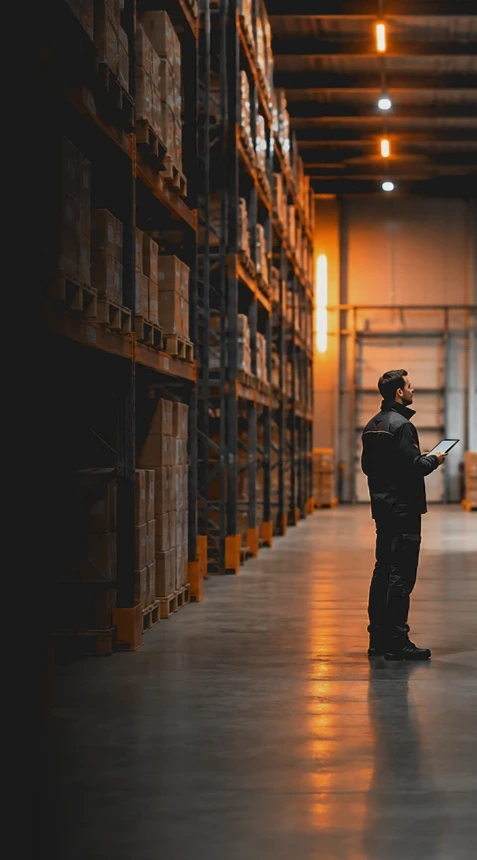
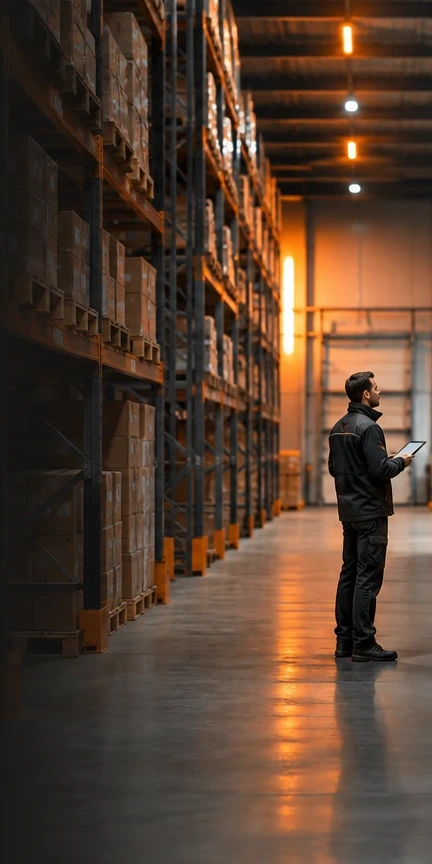
О компании: блоки преимуществ и миссии по макету

diff --git a/o-kompanii.html b/o-kompanii.html
@@ -12,7 +12,7 @@
   <link rel="stylesheet" href="css/style.css?v=73">
   <link rel="stylesheet" href="css/mining.css?v=6">
   <link rel="stylesheet" href="css/catalog.css?v=18">
-  <link rel="stylesheet" href="css/services.css?v=38">
+  <link rel="stylesheet" href="css/services.css?v=40">
   <link rel="stylesheet" href="css/unify.css?v=4">
 </head>
 <body class="page-svc">
@@ -176,7 +176,7 @@
   <section class="section">
     <div class="container">
       <div class="sv-two">
-        <div class="sv-panel sv-panel--photo"><img class="sv-panel__img" src="img/svc/o-adv.webp?v=3" alt="" loading="lazy">
+        <div class="sv-panel sv-panel--photo"><img class="sv-panel__img" src="img/svc/o-adv.webp?v=4" alt="" loading="lazy">
           <h3 class="sv-panel__title">Наши преимущества</h3><span class="line" aria-hidden="true"></span>
           <p class="sv-panel__sub">За что нас ценят клиенты</p>
           <ul class="sv-checks" style="max-width:68%">
@@ -191,7 +191,7 @@
         <div class="sv-panel">
           <h3 class="sv-panel__title">Наша миссия</h3><span class="line" aria-hidden="true"></span>
           <p class="sv-panel__sub">Создаём склады, которые работают на бизнес</p>
-          <ul class="sv-tiles">
+          <ul class="sv-tiles sv-tiles--m">
             <li><img src="img/svc/i-grid.svg" width="26" height="26" alt="">Упорядочиваем пространство</li>
             <li><img src="img/svc/i-trend.svg" width="26" height="26" alt="">Помогаем бизнесу расти</li>
             <li><img src="img/svc/i-ruler.svg" width="26" height="26" alt="">Проектируем эффективные склады</li>

diff --git a/css/services.css b/css/services.css
@@ -493,3 +493,8 @@ a.sv-pc:hover .sv-pc__btn { background: var(--c-accent-hover); }
 .sv-dir__more { display: flex; align-items: center; justify-content: center; gap: 10px; font-style: normal; font-size: 14px; font-weight: 600; text-transform: uppercase; color: #fff; background: #ea5901; }
 @media (max-width: 1100px) { .sv-dirs { grid-template-columns: repeat(2, minmax(0, 1fr)); gap: 24px; } }
 @media (max-width: 640px) { .sv-dirs { grid-template-columns: minmax(0, 1fr); gap: 16px; margin-top: 24px; } }
+
+/* ---------- «Наша миссия» и «Наши преимущества» по макету ---------- */
+.sv-panel--photo .sv-panel__img { -webkit-mask-image: linear-gradient(90deg, transparent 0, #000 22%); mask-image: linear-gradient(90deg, transparent 0, #000 22%); }
+.sv-tiles--m { gap: 16px; }
+.sv-tiles--m li { gap: 18px; min-height: 73px; padding: 12px 17px; font-size: 16px; }

diff --git a/blog.html b/blog.html
@@ -12,7 +12,7 @@
   <link rel="stylesheet" href="css/style.css?v=73">
   <link rel="stylesheet" href="css/mining.css?v=6">
   <link rel="stylesheet" href="css/catalog.css?v=18">
-  <link rel="stylesheet" href="css/services.css?v=38">
+  <link rel="stylesheet" href="css/services.css?v=40">
   <link rel="stylesheet" href="css/unify.css?v=4">
 </head>
 <body class="page-svc">

diff --git a/dokumentatsiya.html b/dokumentatsiya.html
@@ -12,7 +12,7 @@
   <link rel="stylesheet" href="css/style.css?v=73">
   <link rel="stylesheet" href="css/mining.css?v=6">
   <link rel="stylesheet" href="css/catalog.css?v=18">
-  <link rel="stylesheet" href="css/services.css?v=38">
+  <link rel="stylesheet" href="css/services.css?v=40">
   <link rel="stylesheet" href="css/unify.css?v=4">
 </head>
 <body class="page-svc">

diff --git a/dostavka.html b/dostavka.html
@@ -12,7 +12,7 @@
   <link rel="stylesheet" href="css/style.css?v=73">
   <link rel="stylesheet" href="css/mining.css?v=6">
   <link rel="stylesheet" href="css/catalog.css?v=18">
-  <link rel="stylesheet" href="css/services.css?v=38">
+  <link rel="stylesheet" href="css/services.css?v=40">
   <link rel="stylesheet" href="css/unify.css?v=4">
 </head>
 <body class="page-svc">

diff --git a/partnery.html b/partnery.html
@@ -12,7 +12,7 @@
   <link rel="stylesheet" href="css/style.css?v=73">
   <link rel="stylesheet" href="css/mining.css?v=6">
   <link rel="stylesheet" href="css/catalog.css?v=18">
-  <link rel="stylesheet" href="css/services.css?v=38">
+  <link rel="stylesheet" href="css/services.css?v=40">
   <link rel="stylesheet" href="css/unify.css?v=4">
 </head>
 <body class="page-svc">

diff --git a/proektirovanie-sklada.html b/proektirovanie-sklada.html
@@ -12,7 +12,7 @@
   <link rel="stylesheet" href="css/style.css?v=73">
   <link rel="stylesheet" href="css/mining.css?v=6">
   <link rel="stylesheet" href="css/catalog.css?v=18">
-  <link rel="stylesheet" href="css/services.css?v=38">
+  <link rel="stylesheet" href="css/services.css?v=40">
   <link rel="stylesheet" href="css/unify.css?v=4">
 </head>
 <body class="page-svc">

diff --git a/razrabotka-tz.html b/razrabotka-tz.html
@@ -12,7 +12,7 @@
   <link rel="stylesheet" href="css/style.css?v=73">
   <link rel="stylesheet" href="css/mining.css?v=6">
   <link rel="stylesheet" href="css/catalog.css?v=18">
-  <link rel="stylesheet" href="css/services.css?v=38">
+  <link rel="stylesheet" href="css/services.css?v=40">
   <link rel="stylesheet" href="css/unify.css?v=4">
 </head>
 <body class="page-svc">

diff --git a/sborka-i-montazh.html b/sborka-i-montazh.html
@@ -12,7 +12,7 @@
   <link rel="stylesheet" href="css/style.css?v=73">
   <link rel="stylesheet" href="css/mining.css?v=6">
   <link rel="stylesheet" href="css/catalog.css?v=18">
-  <link rel="stylesheet" href="css/services.css?v=38">
+  <link rel="stylesheet" href="css/services.css?v=40">
   <link rel="stylesheet" href="css/unify.css?v=4">
 </head>
 <body class="page-svc">

diff --git a/uslugi.html b/uslugi.html
@@ -12,7 +12,7 @@
   <link rel="stylesheet" href="css/style.css?v=73">
   <link rel="stylesheet" href="css/mining.css?v=6">
   <link rel="stylesheet" href="css/catalog.css?v=18">
-  <link rel="stylesheet" href="css/services.css?v=38">
+  <link rel="stylesheet" href="css/services.css?v=40">
   <link rel="stylesheet" href="css/unify.css?v=4">
 </head>
 <body class="page-svc">
